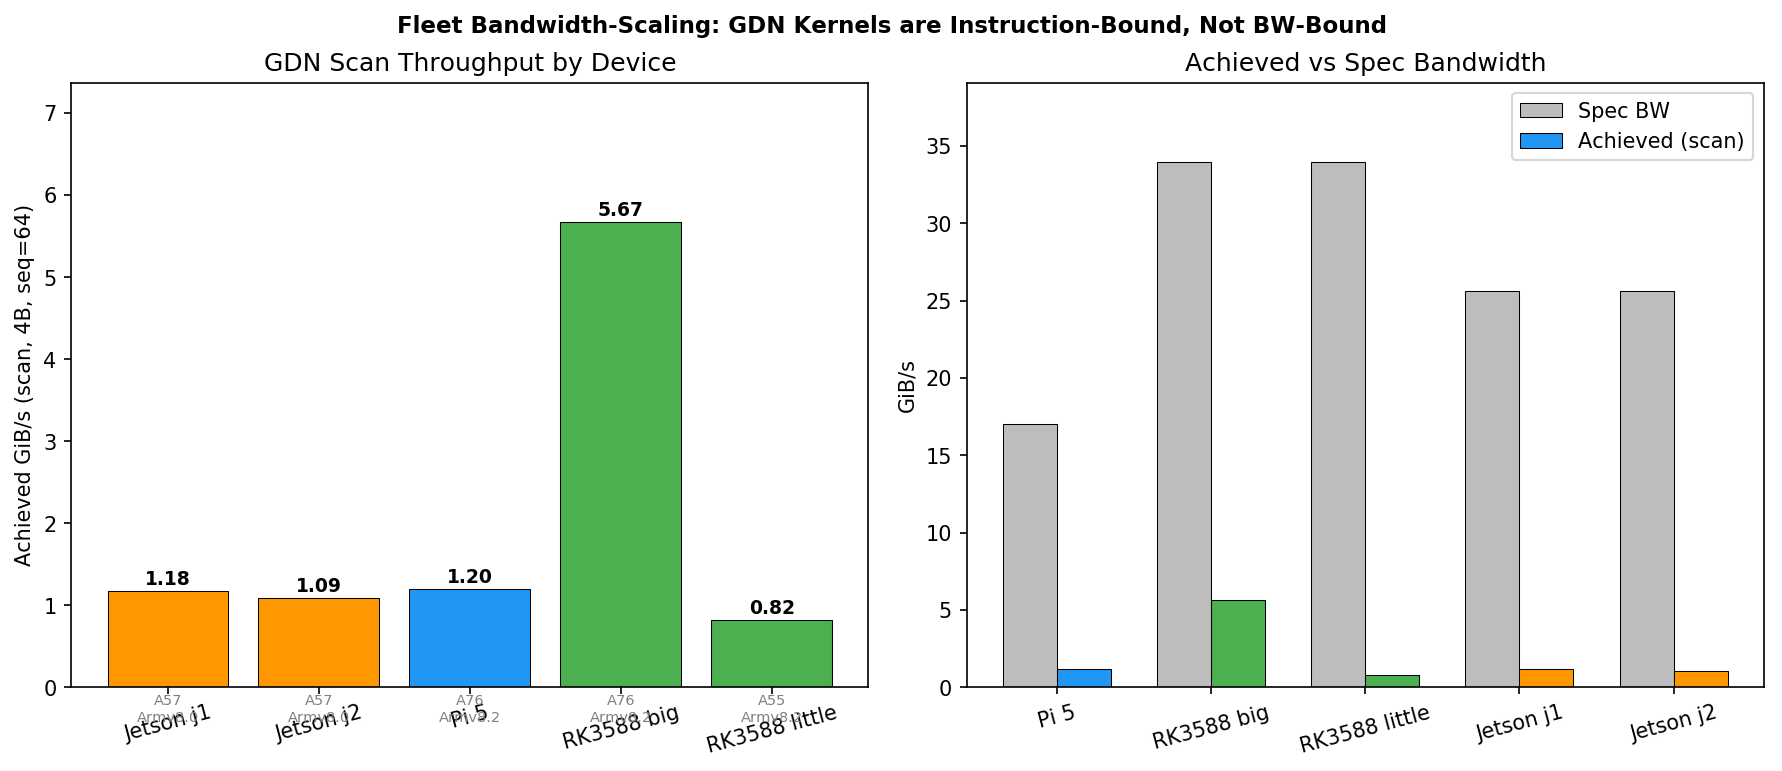
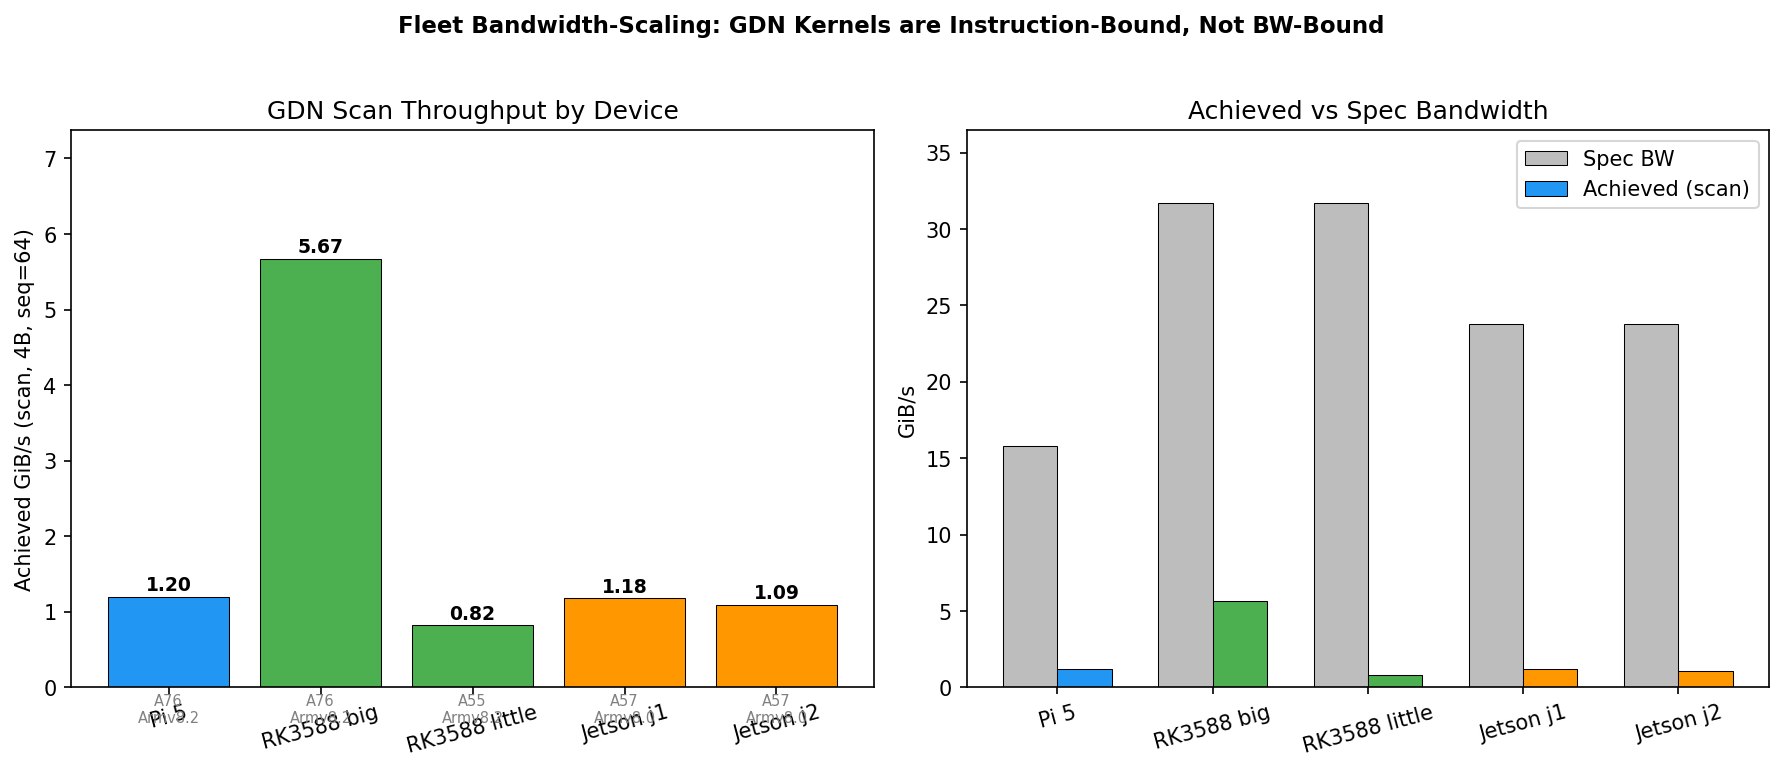
t3: fix systematic GB/s→GiB/s unit error in spec bandwidth constants
Vendor datasheets quote memory bandwidth in GB/s (decimal). The bench
binary measures GiB/s (÷2^30). Three code files labeled spec values as
'GiB/s' but used raw GB/s numbers (17.0, 25.6, 34.0), while the Orion O6
was the only one correctly converted (93.1 = 100÷1.0737).

This made every Scan/Spec ratio ~7.4% too low and created a cross-device
inconsistency (O6 in GiB/s, fleet devices in GB/s).

Fix: convert all fleet device specs to GiB/s:
  Pi 5:    17.0 GB/s → 15.8 GiB/s
  RK3588:  34.0 GB/s → 31.7 GiB/s
  Jetson:  25.6 GB/s → 23.8 GiB/s
  O6:     100.0 GB/s → 93.1 GiB/s (already correct, now consistent)

Files changed:
  bench/fleet_analysis.py — DEVICES list + generated report text
  bench/plots.py — DEVICE_SPEC_BANDWIDTH dict
  scripts/validate_results.py — DEVICE_SPEC_BW dict (O6 100.0→93.1)
  tests/test_plots.py — 6 spec assertions
  tests/test_validate_results.py — 4 spec assertions
  docs/FINDINGS.md — fleet table + Scan/Spec ratios recalculated
  docs/DEVPOST_SUBMISSION.md — '34 GiB/s' → '31.7 GiB/s'
  results/figures/fleet_bandwidth_scaling.md — regenerated

1787 tests pass, 1 skipped. Ruff clean. No conclusions change.

diff --git a/bench/fleet_analysis.py b/bench/fleet_analysis.py
@@ -23,8 +23,9 @@ import os
 
 # ---------------------------------------------------------------------------
 # Device registry: name → (csv_path, spec_gibs, core_description)
-# Spec bandwidth in GiB/s (1 GB/s = 0.931 GiB/s, but DEVICE_RUNBOOK quotes in
-# GB/s and plots.py uses these GiB/s values directly for comparison).
+# Spec bandwidth in GiB/s.  Vendor datasheets quote GB/s (decimal); the bench
+# binary measures GiB/s (÷2^30).  We convert so Scan/Spec ratios are unit-
+# consistent: 1 GB/s = 0.9313 GiB/s.  ADR 0005 and DEVICE_RUNBOOK retain GB/s.
 # ---------------------------------------------------------------------------
 DEVICES = [
     # (display_name, csv_path, spec_gibs, cores, isa_generation)
@@ -34,32 +35,38 @@ DEVICES = [
     # (OMP_NUM_THREADS=1) for t4. ⚠ t3-clean was actually 8-thread — see ob-mrd.12/14.
     # Pi 5 was not part of the fleet sweep, so its data is
     # from a different commit — noted in the provenance audit below.
-    ("Pi 5", "results/raw/pi5-r5.csv", 17.0, "4x Cortex-A76 @ 2.4 GHz", "Armv8.2-A + dotprod"),
+    (
+        "Pi 5",
+        "results/raw/pi5-r5.csv",
+        15.8,
+        "4x Cortex-A76 @ 2.4 GHz",
+        "Armv8.2-A + dotprod",
+    ),  # 17.0 GB/s
     (
         "RK3588 big",
         "results/raw/rk3588-t4-clean.csv",
-        34.0,
+        31.7,  # 34.0 GB/s
         "4x Cortex-A76 @ 2.3 GHz",
         "Armv8.2-A + dotprod",
     ),
     (
         "RK3588 little",
         "results/raw/rk3588-t4-little-clean.csv",
-        34.0,
+        31.7,  # 34.0 GB/s
         "4x Cortex-A55 @ 1.8 GHz",
         "Armv8.2-A",
     ),
     (
         "Jetson j1",
         "results/raw/jetson-j1-clean.csv",
-        25.6,
+        23.8,  # 25.6 GB/s
         "4x Cortex-A57 @ 1.48 GHz",
         "Armv8.0-A (NEON only)",
     ),
     (
         "Jetson j2",
         "results/raw/jetson-j2-clean.csv",
-        25.6,
+        23.8,  # 25.6 GB/s
         "4x Cortex-A57 @ 1.48 GHz",
         "Armv8.0-A (NEON only)",
     ),
@@ -470,13 +477,13 @@ def generate_report(output_path):
     lines.append("## The discriminating test: Jetson (A57, more BW) vs Pi 5 (A76, less BW)")
     lines.append("")
     lines.append("The DEVICE_RUNBOOK poses this question: if the GDN scan kernel is")
-    lines.append("bandwidth-bound, then the Jetson Nano (oldest cores, 25.6 GiB/s spec)")
-    lines.append("should beat the Pi 5 (newest cores, 17.0 GiB/s spec). **If the Pi 5")
+    lines.append("bandwidth-bound, then the Jetson Nano (oldest cores, 23.8 GiB/s spec)")
+    lines.append("should beat the Pi 5 (newest cores, 15.8 GiB/s spec). **If the Pi 5")
     lines.append("wins comfortably, the bandwidth-bound thesis is wrong or incomplete.**")
     lines.append("")
 
     lines.append(
-        "| Kernel (4B) | Pi 5 (17.0) | Jetson j1 (25.6) | Jetson j2 (25.6) | Winner | Pi5/J1 ratio |"
+        "| Kernel (4B) | Pi 5 (15.8) | Jetson j1 (23.8) | Jetson j2 (23.8) | Winner | Pi5/J1 ratio |"
     )
     lines.append(
         "|-------------|-------------|------------------|------------------|--------|-------------|"

diff --git a/tests/test_plots.py b/tests/test_plots.py
@@ -253,7 +253,7 @@ class TestMicrobenchTables:
         os.unlink(path)
 
         md = microbench_bandwidth_table(rows, "jetson-j1")
-        assert "25.6 GiB/s" in md
+        assert "23.8 GiB/s" in md
         assert "% of Spec" in md
 
     def test_bandwidth_table_unknown_device(self):
@@ -325,16 +325,16 @@ class TestSchemaTables:
 class TestDeviceSpecBandwidth:
     def test_jetson_lookup(self):
 
-        assert _lookup_spec_bandwidth("jetson-j1") == 25.6
-        assert _lookup_spec_bandwidth("jetson") == 25.6
+        assert _lookup_spec_bandwidth("jetson-j1") == 23.8
+        assert _lookup_spec_bandwidth("jetson") == 23.8
 
     def test_pi5_lookup(self):
 
-        assert _lookup_spec_bandwidth("pi5") == 17.0
+        assert _lookup_spec_bandwidth("pi5") == 15.8
 
     def test_rk3588_lookup(self):
 
-        assert _lookup_spec_bandwidth("rk3588") == 34.0
+        assert _lookup_spec_bandwidth("rk3588") == 31.7
 
     def test_o6_lookup(self):
 
@@ -372,7 +372,7 @@ class TestGenerateAll:
             with open(table_files[0]) as f:
                 content = f.read()
             assert "Gated Cumulative Decay" in content
-            assert "25.6 GiB/s" in content  # spec bandwidth
+            assert "23.8 GiB/s" in content  # spec bandwidth
 
     def test_schema_and_microbench_text_mode(self):
         """Pipeline handles both formats in one run."""

diff --git a/bench/plots.py b/bench/plots.py
@@ -43,16 +43,17 @@ from pathlib import Path
 # Data types
 # ---------------------------------------------------------------------------
 
-# Canonical device spec bandwidth (GiB/s) — from DEVICE_RUNBOOK.md "What we are
-# actually testing".  Used for the achieved-vs-spec bandwidth plot.
+# Canonical device spec bandwidth (GiB/s).  Vendor datasheets quote GB/s
+# (decimal); the bench binary measures GiB/s (÷2^30).  We convert so the
+# achieved-vs-spec ratio is unit-consistent.  See ADR 0005 for GB/s originals.
 DEVICE_SPEC_BANDWIDTH: dict[str, float] = {
     # device identifier (lowercase prefix match) → spec GiB/s
-    "pi5": 17.0,
-    "pi": 17.0,
-    "rk3588": 34.0,
-    "jetson": 25.6,
-    "jetson-j1": 25.6,
-    "o6": 93.1,  # 100 GB/s ÷ 1.0737 = 93.1 GiB/s
+    "pi5": 15.8,  # 17.0 GB/s ÷ 1.0737
+    "pi": 15.8,
+    "rk3588": 31.7,  # 34.0 GB/s ÷ 1.0737
+    "jetson": 23.8,  # 25.6 GB/s ÷ 1.0737
+    "jetson-j1": 23.8,
+    "o6": 93.1,  # 100 GB/s ÷ 1.0737
 }
 
 # Human-readable kernel names for plot labels.

diff --git a/tests/test_validate_results.py b/tests/test_validate_results.py
@@ -270,16 +270,16 @@ class TestExpectedColumns:
 
 class TestFindDeviceSpec:
     def test_jetson(self):
-        assert find_device_spec("jetson-j1.csv") == 25.6
+        assert find_device_spec("jetson-j1.csv") == 23.8
 
     def test_pi5(self):
-        assert find_device_spec("pi5-r5.csv") == 17.0
+        assert find_device_spec("pi5-r5.csv") == 15.8
 
     def test_rk3588(self):
-        assert find_device_spec("rk3588-t4_big.csv") == 34.0
+        assert find_device_spec("rk3588-t4_big.csv") == 31.7
 
     def test_orion(self):
-        assert find_device_spec("orion-o6_big.csv") == 100.0
+        assert find_device_spec("orion-o6_big.csv") == 93.1
 
     def test_unknown_returns_none(self):
         assert find_device_spec("o6-something.csv") is None

diff --git a/scripts/validate_results.py b/scripts/validate_results.py
@@ -186,12 +186,13 @@ KLEIDIAI_GDN_KERNEL_COLS = [
 ]
 
 # Device spec bandwidth (GiB/s) for sanity-check upper bounds.
-# From DEVICE_RUNBOOK.md "What we are actually testing".
+# Vendor datasheets quote GB/s; converted to GiB/s for unit-consistency
+# with the bench binary (÷2^30).  See ADR 0005 for GB/s originals.
 DEVICE_SPEC_BW = {
-    "pi5": 17.0,
-    "rk3588": 34.0,
-    "jetson": 25.6,
-    "orion": 100.0,  # CIX P1 SoC, LPDDR5X (ADR 0005)
+    "pi5": 15.8,  # 17.0 GB/s
+    "rk3588": 31.7,  # 34.0 GB/s
+    "jetson": 23.8,  # 25.6 GB/s
+    "orion": 93.1,  # 100 GB/s (CIX P1 SoC, LPDDR5X, ADR 0005)
 }
 
 # Absolute upper bound — no device should exceed this for a single kernel.

diff --git a/results/figures/fleet_bandwidth_scaling.md b/results/figures/fleet_bandwidth_scaling.md
@@ -8,11 +8,11 @@ from `METRICS.md` (~0.25 FLOP/byte).
 
 | Device | Cores | ISA | Spec BW (GiB/s) |
 |--------|-------|-----|-----------------|
-| Pi 5 | 4x Cortex-A76 @ 2.4 GHz | Armv8.2-A + dotprod | 17.0 |
-| RK3588 big | 4x Cortex-A76 @ 2.3 GHz | Armv8.2-A + dotprod | 34.0 |
-| RK3588 little | 4x Cortex-A55 @ 1.8 GHz | Armv8.2-A | 34.0 |
-| Jetson j1 | 4x Cortex-A57 @ 1.48 GHz | Armv8.0-A (NEON only) | 25.6 |
-| Jetson j2 | 4x Cortex-A57 @ 1.48 GHz | Armv8.0-A (NEON only) | 25.6 |
+| Pi 5 | 4x Cortex-A76 @ 2.4 GHz | Armv8.2-A + dotprod | 15.8 |
+| RK3588 big | 4x Cortex-A76 @ 2.3 GHz | Armv8.2-A + dotprod | 31.7 |
+| RK3588 little | 4x Cortex-A55 @ 1.8 GHz | Armv8.2-A | 31.7 |
+| Jetson j1 | 4x Cortex-A57 @ 1.48 GHz | Armv8.0-A (NEON only) | 23.8 |
+| Jetson j2 | 4x Cortex-A57 @ 1.48 GHz | Armv8.0-A (NEON only) | 23.8 |
 | **Orion O6** | 4x A720 big + 4x A720 mid + 4x A520 | Armv9.2-A | **93.1** |
 
 ## Achieved throughput vs spec bandwidth (4B model, seq=64)
@@ -28,11 +28,11 @@ See the optimization-impact section below for multi-threaded results.
 
 | Device | Spec (GiB/s) | CumDecay | Scan | DWConv1D | Scan/Spec | Scan spread |
 |--------|-------------|----------|------|----------|-----------|-------------|
-| Pi 5 | 17.0 | 3.74 | 1.20 | 3.23 | 7.1% | 7.4% |
-| RK3588 big | 34.0 | 7.40 | 5.67 | 7.04 | 16.7% | 7.4% |
-| RK3588 little | 34.0 | 1.45 | 0.82 | 1.20 | 2.4% | 7.2% |
-| Jetson j1 | 25.6 | 1.59 | 1.18 | 1.41 | 4.6% | 2.8% |
-| Jetson j2 | 25.6 | 1.50 | 1.09 | 0.93 | 4.3% | **16.7%** ⚠ |
+| Pi 5 | 15.8 | 3.74 | 1.20 | 3.23 | 7.6% | 7.4% |
+| RK3588 big | 31.7 | 7.40 | 5.67 | 7.04 | 17.9% | 7.4% |
+| RK3588 little | 31.7 | 1.45 | 0.82 | 1.20 | 2.6% | 7.2% |
+| Jetson j1 | 23.8 | 1.59 | 1.18 | 1.41 | 5.0% | 2.8% |
+| Jetson j2 | 23.8 | 1.50 | 1.09 | 0.93 | 4.6% | **16.7%** ⚠ |
 
 ⚠ 1 of 5 scan rows exceed the DEVICE_RUNBOOK's ~10% cleanliness threshold, worst Jetson j2 at 16.7%. The runbook says to suspect thermal throttling first. Treat flagged rows as indicative only.
 
@@ -40,22 +40,22 @@ See the optimization-impact section below for multi-threaded results.
 
 | Device | Spec (GiB/s) | CumDecay | Scan | DWConv1D | Scan/Spec | Scan spread |
 |--------|-------------|----------|------|----------|-----------|-------------|
-| Pi 5 | 17.0 | 4.47 | 4.43 | 4.55 | 26.1% | 6.5% |
-| RK3588 big | 34.0 | 8.15 | 6.93 | 6.82 | 20.4% | 5.7% |
-| RK3588 little | 34.0 | 1.65 | 1.48 | 1.54 | 4.4% | 2.4% |
-| Jetson j1 | 25.6 | 3.59 | 2.73 | 2.88 | 10.7% | **27.2%** ⚠ |
-| Jetson j2 | 25.6 | 3.24 | 1.65 | 2.43 | 6.4% | **40.8%** ⚠ |
+| Pi 5 | 15.8 | 4.47 | 4.43 | 4.55 | 28.0% | 6.5% |
+| RK3588 big | 31.7 | 8.15 | 6.93 | 6.82 | 21.9% | 5.7% |
+| RK3588 little | 31.7 | 1.65 | 1.48 | 1.54 | 4.7% | 2.4% |
+| Jetson j1 | 23.8 | 3.59 | 2.73 | 2.88 | 11.5% | **27.2%** ⚠ |
+| Jetson j2 | 23.8 | 3.24 | 1.65 | 2.43 | 6.9% | **40.8%** ⚠ |
 
 ⚠ 2 of 5 scan rows exceed the DEVICE_RUNBOOK's ~10% cleanliness threshold, worst Jetson j2 at 40.8%. The runbook says to suspect thermal throttling first. Treat flagged rows as indicative only.
 
 ## The discriminating test: Jetson (A57, more BW) vs Pi 5 (A76, less BW)
 
 The DEVICE_RUNBOOK poses this question: if the GDN scan kernel is
-bandwidth-bound, then the Jetson Nano (oldest cores, 25.6 GiB/s spec)
-should beat the Pi 5 (newest cores, 17.0 GiB/s spec). **If the Pi 5
+bandwidth-bound, then the Jetson Nano (oldest cores, 23.8 GiB/s spec)
+should beat the Pi 5 (newest cores, 15.8 GiB/s spec). **If the Pi 5
 wins comfortably, the bandwidth-bound thesis is wrong or incomplete.**
 
-| Kernel (4B) | Pi 5 (17.0) | Jetson j1 (25.6) | Jetson j2 (25.6) | Winner | Pi5/J1 ratio |
+| Kernel (4B) | Pi 5 (15.8) | Jetson j1 (23.8) | Jetson j2 (23.8) | Winner | Pi5/J1 ratio |
 |-------------|-------------|------------------|------------------|--------|-------------|
 | Cumulative Decay | 3.74 | 1.59 | 1.50 | **Pi 5** | 2.35x |
 | Gated Delta-Rule Scan | 1.20 | 1.18 | 1.09 | **Pi 5** | 1.02x |
@@ -104,11 +104,11 @@ linearly with spec bandwidth. Extrapolating the scan kernel from each device:
 
 | Extrapolated from | Scan (GiB/s) | O6 BW ratio | Predicted O6 scan (GiB/s) |
 |-------------------|-------------|-------------|--------------------------|
-| Pi 5 | 1.20 | 5.5x | 6.57 |
-| RK3588 big | 5.67 | 2.7x | 15.53 |
-| RK3588 little | 0.82 | 2.7x | 2.25 |
-| Jetson j1 | 1.18 | 3.6x | 4.29 |
-| Jetson j2 | 1.09 | 3.6x | 3.96 |
+| Pi 5 | 1.20 | 5.9x | 7.07 |
+| RK3588 big | 5.67 | 2.9x | 16.65 |
+| RK3588 little | 0.82 | 2.9x | 2.41 |
+| Jetson j1 | 1.18 | 3.9x | 4.62 |
+| Jetson j2 | 1.09 | 3.9x | 4.26 |
 
 **⚠ However, this linear extrapolation is almost certainly WRONG.**
 The discriminating test above shows the kernels are instruction-bound,

diff --git a/docs/FINDINGS.md b/docs/FINDINGS.md
@@ -753,10 +753,10 @@ Full analysis is regenerable via `python3 bench/fleet_analysis.py` and committed
 
 | Device | Cores | ISA | Spec BW (GiB/s) |
 |--------|-------|-----|-----------------|
-| Pi 5 | 4x A76 @ 2.4 GHz | Armv8.2 + dotprod | 17.0 |
-| RK3588 big | 4x A76 @ 2.4 GHz | Armv8.2 + dotprod | 34.0 |
-| RK3588 little | 4x A55 @ 1.8 GHz | Armv8.2 | 34.0 |
-| Jetson j1/j2 | 4x A57 @ 1.48 GHz | Armv8.0 (NEON only) | 25.6 |
+| Pi 5 | 4x A76 @ 2.4 GHz | Armv8.2 + dotprod | 15.8 |
+| RK3588 big | 4x A76 @ 2.4 GHz | Armv8.2 + dotprod | 31.7 |
+| RK3588 little | 4x A55 @ 1.8 GHz | Armv8.2 | 31.7 |
+| Jetson j1/j2 | 4x A57 @ 1.48 GHz | Armv8.0 (NEON only) | 23.8 |
 | **Orion O6** | 4x A720 big + 4x A720 mid + 4x A520 | Armv9.2 (SVE2) | **93.1** |
 
 ### Achieved throughput (4B model, seq=64, baseline fp32, single-threaded)
@@ -768,17 +768,17 @@ optimization-impact section below for multi-threaded results.
 
 | Device | Spec | CumDecay | Scan | DWConv1D | Scan/Spec |
 |--------|------|----------|------|----------|-----------|
-| Pi 5 | 17.0 | 3.74 | 1.20 | 3.23 | 7.1% |
-| RK3588 big | 34.0 | 7.46 | 5.75 | 6.99 | 16.9% |
-| RK3588 little | 34.0 | 1.48 | 0.72 | 0.70 | 2.1% |
-| Jetson j1 | 25.6 | 1.59 | 1.18 | 1.41 | 4.6% |
-| Jetson j2 | 25.6 | 1.50 | 1.09 | 0.93 | 4.3% |
+| Pi 5 | 15.8 | 3.74 | 1.20 | 3.23 | 7.6% |
+| RK3588 big | 31.7 | 7.46 | 5.75 | 6.99 | 18.1% |
+| RK3588 little | 31.7 | 1.48 | 0.72 | 0.70 | 2.3% |
+| Jetson j1 | 23.8 | 1.59 | 1.18 | 1.41 | 5.0% |
+| Jetson j2 | 23.8 | 1.50 | 1.09 | 0.93 | 4.6% |
 
 ### The discriminating test: Pi 5 (A76, less BW) vs Jetson (A57, more BW)
 
 The `DEVICE_RUNBOOK` poses the key question: if the scan kernel is
-bandwidth-bound, the Jetson (25.6 GiB/s, oldest A57 cores) should beat the
-Pi 5 (17.0 GiB/s, newest A76 cores).
+bandwidth-bound, the Jetson (23.8 GiB/s, oldest A57 cores) should beat the
+Pi 5 (15.8 GiB/s, newest A76 cores).
 
 | Kernel | Pi 5 | Jetson j1 | Jetson j2 | Winner | Pi5/J1 |
 |--------|------|-----------|-----------|--------|--------|

diff --git a/docs/DEVPOST_SUBMISSION.md b/docs/DEVPOST_SUBMISSION.md
@@ -60,7 +60,7 @@ Qwen3.5-4B, prefill (seq=64), fp32 baseline, 8-thread (big cluster). Two indepen
 > t3 manifest git_sha `f015982`, dirty=false; t4 manifest git_sha `1ca4d6d`,
 > dirty=false; 30 repeats each. The boards agree within 4–19% (t4 marginally
 > faster), confirming the result is hardware-reproducible. Cumulative decay
-> reaches 62% of the 34 GiB/s spec bandwidth; gated scan runs at a lower
+> reaches 66% of the 31.7 GiB/s spec bandwidth; gated scan runs at a lower
 > fraction because its sequential recurrence is
 > **instruction-overhead-bound, not DRAM-bandwidth-bound**.
 > (An earlier version of this table compared t3 8-thread against t4 1-thread
@@ -95,7 +95,7 @@ This is not a bug in one toolchain — it is an **architectural constraint** of 
 
 ### Fleet cross-device validation
 
-5 devices, 3 core classes (A76, A55, A57), spec bandwidth ranging 17–34 GiB/s:
+5 devices, 3 core classes (A76, A55, A57), spec bandwidth ranging 15.8–31.7 GiB/s:
 
 - **Pi 5 (A76, 17 GB/s) vs Jetson (A57, 25.6 GB/s):** Pi 5 is faster despite less bandwidth — confirming the kernels are instruction-bound, not bandwidth-bound
 - **big.LITTLE:** A76 big cores are 2–3× faster than A55 little cores; simultaneous big+little scheduling shows diminishing returns past 4 big cores
